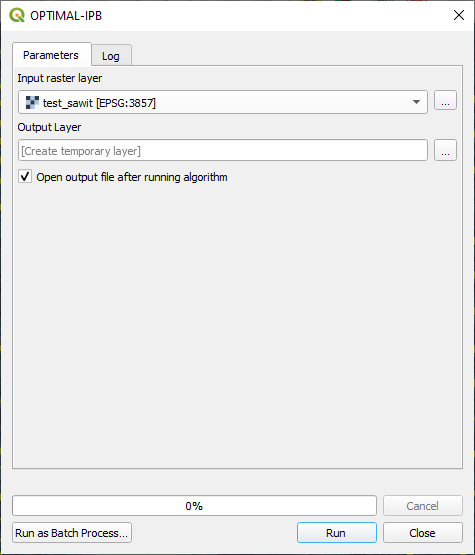
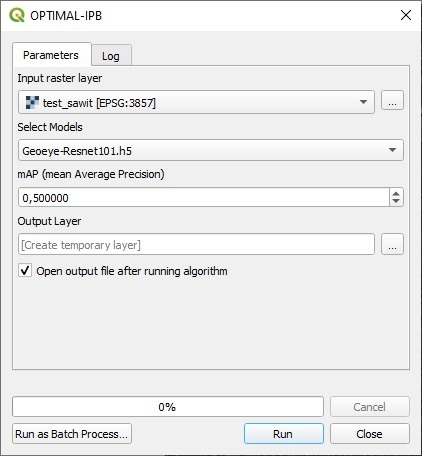
Initial Commit

Changed region(s): [[0.0, 0.0, 1.0, 1.0], [0.955, 0.0, 1.0, 0.0921]]

diff --git a/optimal_ipb_algorithm.py b/optimal_ipb_algorithm.py
@@ -42,6 +42,8 @@ from qgis.core import (QgsProcessing,
                        QgsFeature,
                        QgsProcessingAlgorithm,
                        QgsProcessingParameterRasterLayer,
+                       QgsProcessingParameterEnum,
+                       QgsProcessingParameterNumber,
                        QgsProcessingParameterFeatureSink)
 
 import numpy as np
@@ -53,6 +55,7 @@ import inspect
 from osgeo import gdal
 
 from qgis.PyQt.QtCore import QVariant
+from qgis.PyQt.QtWidgets import QMessageBox
 
 from .keras_retinanet.models import load_model
 from .keras_retinanet.utils.image import preprocess_image, resize_image
@@ -64,54 +67,60 @@ from .helpers import pixel2coord
 from .helpers import non_max_suppression_fast
 from .helpers import map_uint16_to_uint8
 
-scorethreshold = 0.5
 iouthreshold = 0.5
 bboxes = []
+modelsList = []
 
-class minmax: 
-    def __init__(self, minimum, maximum): 
-        self.minimum = minimum 
+cmd_folder = os.path.split(inspect.getfile(inspect.currentframe()))[0]
+
+for file in os.listdir(os.path.join(cmd_folder, 'models/')):
+    if file.endswith(".h5"):
+        modelsList.append(file)
+
+class minmax:
+    def __init__(self, minimum, maximum):
+        self.minimum = minimum
         self.maximum = maximum
 
-def detect_palm(model, ds, x, y, winW, winH, minmaxlist):
+def detect_palm(model, ds, x, y, winW, winH, minmaxlist, scorethreshold):
     # crop image
     a_image = ds.ReadAsArray(x, y, winW, winH)
     datatype = ds.GetRasterBand(1).DataType
-    
+
     normalizedImg = []
-    
+
     if not datatype == 1:
         for i in range(3):
             band_255 = map_uint16_to_uint8(a_image[i], int(minmaxlist[i].minimum), int(minmaxlist[i].maximum))
             normalizedImg.append(band_255)
-            
+
         normalizedImg = np.dstack((normalizedImg[2], normalizedImg[1], normalizedImg[0]))
-        
+
     else:
         normalizedImg = np.dstack(((a_image[2],a_image[1],a_image[0])))
-    
+
     # preprocess image for network
     image = preprocess_image(normalizedImg)
     image, scale = resize_image(image)
-    
+
     # process image
     boxes, scores, labels = model.predict_on_batch(np.expand_dims(image, axis=0))
-    
+
     # correct for image scale
     boxes /= scale
-    
+
     # select indices which have a score above the threshold
     indices = np.where(scores[0, :] >= scorethreshold)[0]
-    
+
     # select those scores
     scores = scores[0][indices]
-    
+
     # find the order with which to sort the scores
     scores_sort = np.argsort(-scores)
-    
+
     # select detections
     image_boxes = boxes[0, indices[scores_sort], :]
-    
+
     for i in indices:
         b = np.array(image_boxes[i,:]).astype(int)
         x1 = b[0] + x
@@ -119,7 +128,7 @@ def detect_palm(model, ds, x, y, winW, winH, minmaxlist):
         x2 = b[2] + x
         y2 = b[3] + y
         bboxes.append([x1, y1, x2, y2])
-    
+
     return bboxes
     #bscores.extend(scores)
 
@@ -143,6 +152,8 @@ class OptimalIpbAlgorithm(QgsProcessingAlgorithm):
 
     OUTPUT = 'OUTPUT'
     INPUT = 'INPUT'
+    OPTIMAL = 'MODEL'
+    mAP = 'mAP'
 
     def initAlgorithm(self, config):
         """
@@ -160,6 +171,30 @@ class OptimalIpbAlgorithm(QgsProcessingAlgorithm):
             )
         )
 
+        # We add the input vector features source. It can have any kind of
+        # geometry.
+        self.addParameter(
+            QgsProcessingParameterEnum(
+                self.OPTIMAL,
+                self.tr('Select Models'),
+                options=modelsList,
+                defaultValue=0,
+                optional=False
+            )
+        )
+
+        self.addParameter(
+            QgsProcessingParameterNumber(
+                name=self.mAP,
+                description=self.tr('mAP (mean Average Precision)'),
+                type=QgsProcessingParameterNumber.Double,
+                defaultValue=0.5,
+                optional=False,
+                minValue=0,
+                maxValue=1
+            )
+        )
+
         # We add a feature sink in which to store our processed features (this
         # usually takes the form of a newly created vector layer when the
         # algorithm is run in QGIS).
@@ -170,95 +205,100 @@ class OptimalIpbAlgorithm(QgsProcessingAlgorithm):
                 QgsProcessing.TypeVectorPoint
             )
         )
-    
+
+        if len(modelsList) <= 0:
+            QMessageBox.information(None, 'OPTIMAL-IPB Plugins', 'You dont have models downloaded yet. Please download latest model from our repository through this link: <a href="https://github.com/p4wlppmipb/OPTIMAL-IPB/releases">https://github.com/p4wlppmipb/OPTIMAL-IPB/releases</a> and follow the instruction.')
+
     def processAlgorithm(self, parameters, context, feedback):
         """
         Here is where the processing itself takes place.
         """
-        
+
         (winW, winH, stepSize) = (500, 500, 470)
-        
+
         # load model
-        model = load_model(r'/export/GOOGLE500-101.h5', backbone_name='resnet101')
-        source = self.parameterAsRasterLayer(parameters, self.INPUT, context)
-        
+        model_name = modelsList[self.parameterAsEnum(parameters, self.OPTIMAL, context)]
+        model = load_model(os.path.join(cmd_folder, 'models/', model_name), backbone_name='resnet101')
+
         # prepare writer
         outFeat = QgsFeature()
         fields = QgsFields()
         fields.append(QgsField('Object', QVariant.String))
         outFeat.setFields(fields)
-        
+
         # get CRS from raster source
+        source = self.parameterAsRasterLayer(parameters, self.INPUT, context)
         ds = gdal.Open(source.source())
         width = ds.RasterXSize
         height = ds.RasterYSize
         rastercount = ds.RasterCount
         datatype = ds.GetRasterBand(1).DataType
         minmaxlist = []
-        
+
         for bandId in range(ds.RasterCount):
             bandId = bandId + 1
             band = ds.GetRasterBand(bandId)
             band_arr_tmp = band.ReadAsArray()
             min, max = np.percentile(band_arr_tmp, (2, 98))
             minmaxlist.append( minmax(min, max) )
-        
-        #create the output sink
-        (sink, dest_id) = self.parameterAsSink(parameters, self.OUTPUT, context, fields, 1, source.crs())
-        
+
+        mAP_val = self.parameterAsDouble(parameters, self.mAP, context)
         for (x, y) in sliding_window(width, height, stepSize):
             # Stop the algorithm if cancel button has been clicked
             if feedback.isCanceled():
                 break
-            
+
             # Stop sliding windows if widows end
             if x + winW > width and y + winH > height:
                 xl = width - winW
                 yl = height - winH
-                detect_palm(model, ds, xl, yl, winW, winH, minmaxlist)
+                detect_palm(model, ds, xl, yl, winW, winH, minmaxlist, mAP_val)
                 continue
 
             if x + winW > width:
                 xl = width - winW
-                detect_palm(model, ds, xl, y, winW, winH, minmaxlist)
+                detect_palm(model, ds, xl, y, winW, winH, minmaxlist, mAP_val)
                 continue
-            
+
             if y + winH > height:
                 yl = height - winH
-                detect_palm(model, ds, x, yl, winW, winH, minmaxlist)
+                detect_palm(model, ds, x, yl, winW, winH, minmaxlist, mAP_val)
                 continue
-            
-            detect_palm(model, ds, x, y, winW, winH, minmaxlist)
-                
+
+            detect_palm(model, ds, x, y, winW, winH, minmaxlist, mAP_val)
+
         bboxeses = np.array(bboxes, dtype=np.float32)
-        
+
         # non max suppression on overlay bboxes
         new_boxes = non_max_suppression_fast(bboxeses, overlapThresh=iouthreshold)
-        
+
+        #create the output sink
+        (sink, dest_id) = self.parameterAsSink(parameters, self.OUTPUT, context, fields, 1, source.crs())
+
         for jk in range(new_boxes.shape[0]):
-            
+
             b = np.array(new_boxes[jk,:]).astype(int)
-            
+
             x1 = b[0]
             y1 = b[1]
             x2 = b[2]
             y2 = b[3]
-            
+
             # Centroid
             xc  = (x1 + x2) / 2
             yc  = (y1 + y2) / 2
-            
+
             # get geo coordinate
             (coor_x, coor_y)  = pixel2coord(ds, xc, yc)
-            
+
             # append coordinate to array point
             outFeat.setGeometry( QgsPoint( coor_x, coor_y ) )
             outFeat.setAttributes(['Sawit'])
-            
+
             #feedback.setProgress(int(current * total))
-            
+
             sink.addFeature(outFeat, QgsFeatureSink.FastInsert)
-        
+
         return {self.OUTPUT: dest_id}
 
     def name(self):
